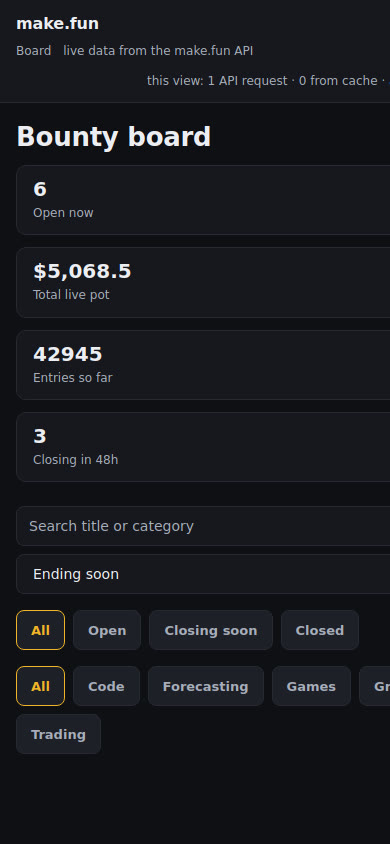
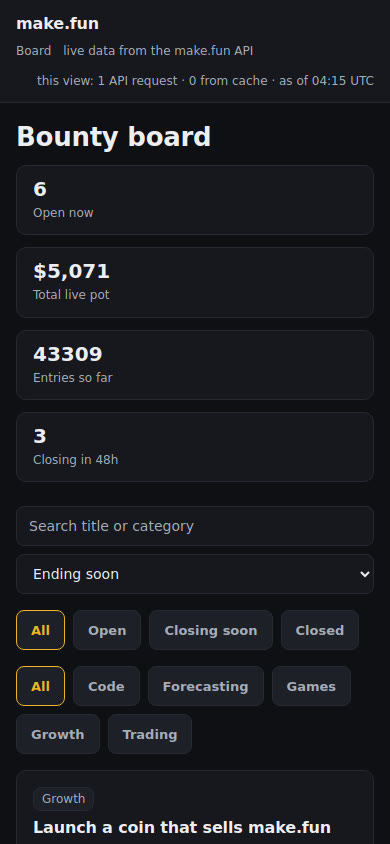
v3 fix: phone telemetry wraps fully; recapture leaderboard and phone screenshots at final build

diff --git a/app/style.css b/app/style.css
@@ -1047,3 +1047,15 @@ tbody tr:hover {
     top: 76px;
   }
 }
+
+/* on a narrow phone the telemetry readout cannot share the header row:
+   give it its own full-width line and let the text wrap instead of
+   clipping at the right edge */
+@media (max-width: 560px) {
+  .net-readout {
+    flex-basis: 100%;
+    white-space: normal;
+    text-align: right;
+    font-size: 12px;
+  }
+}
